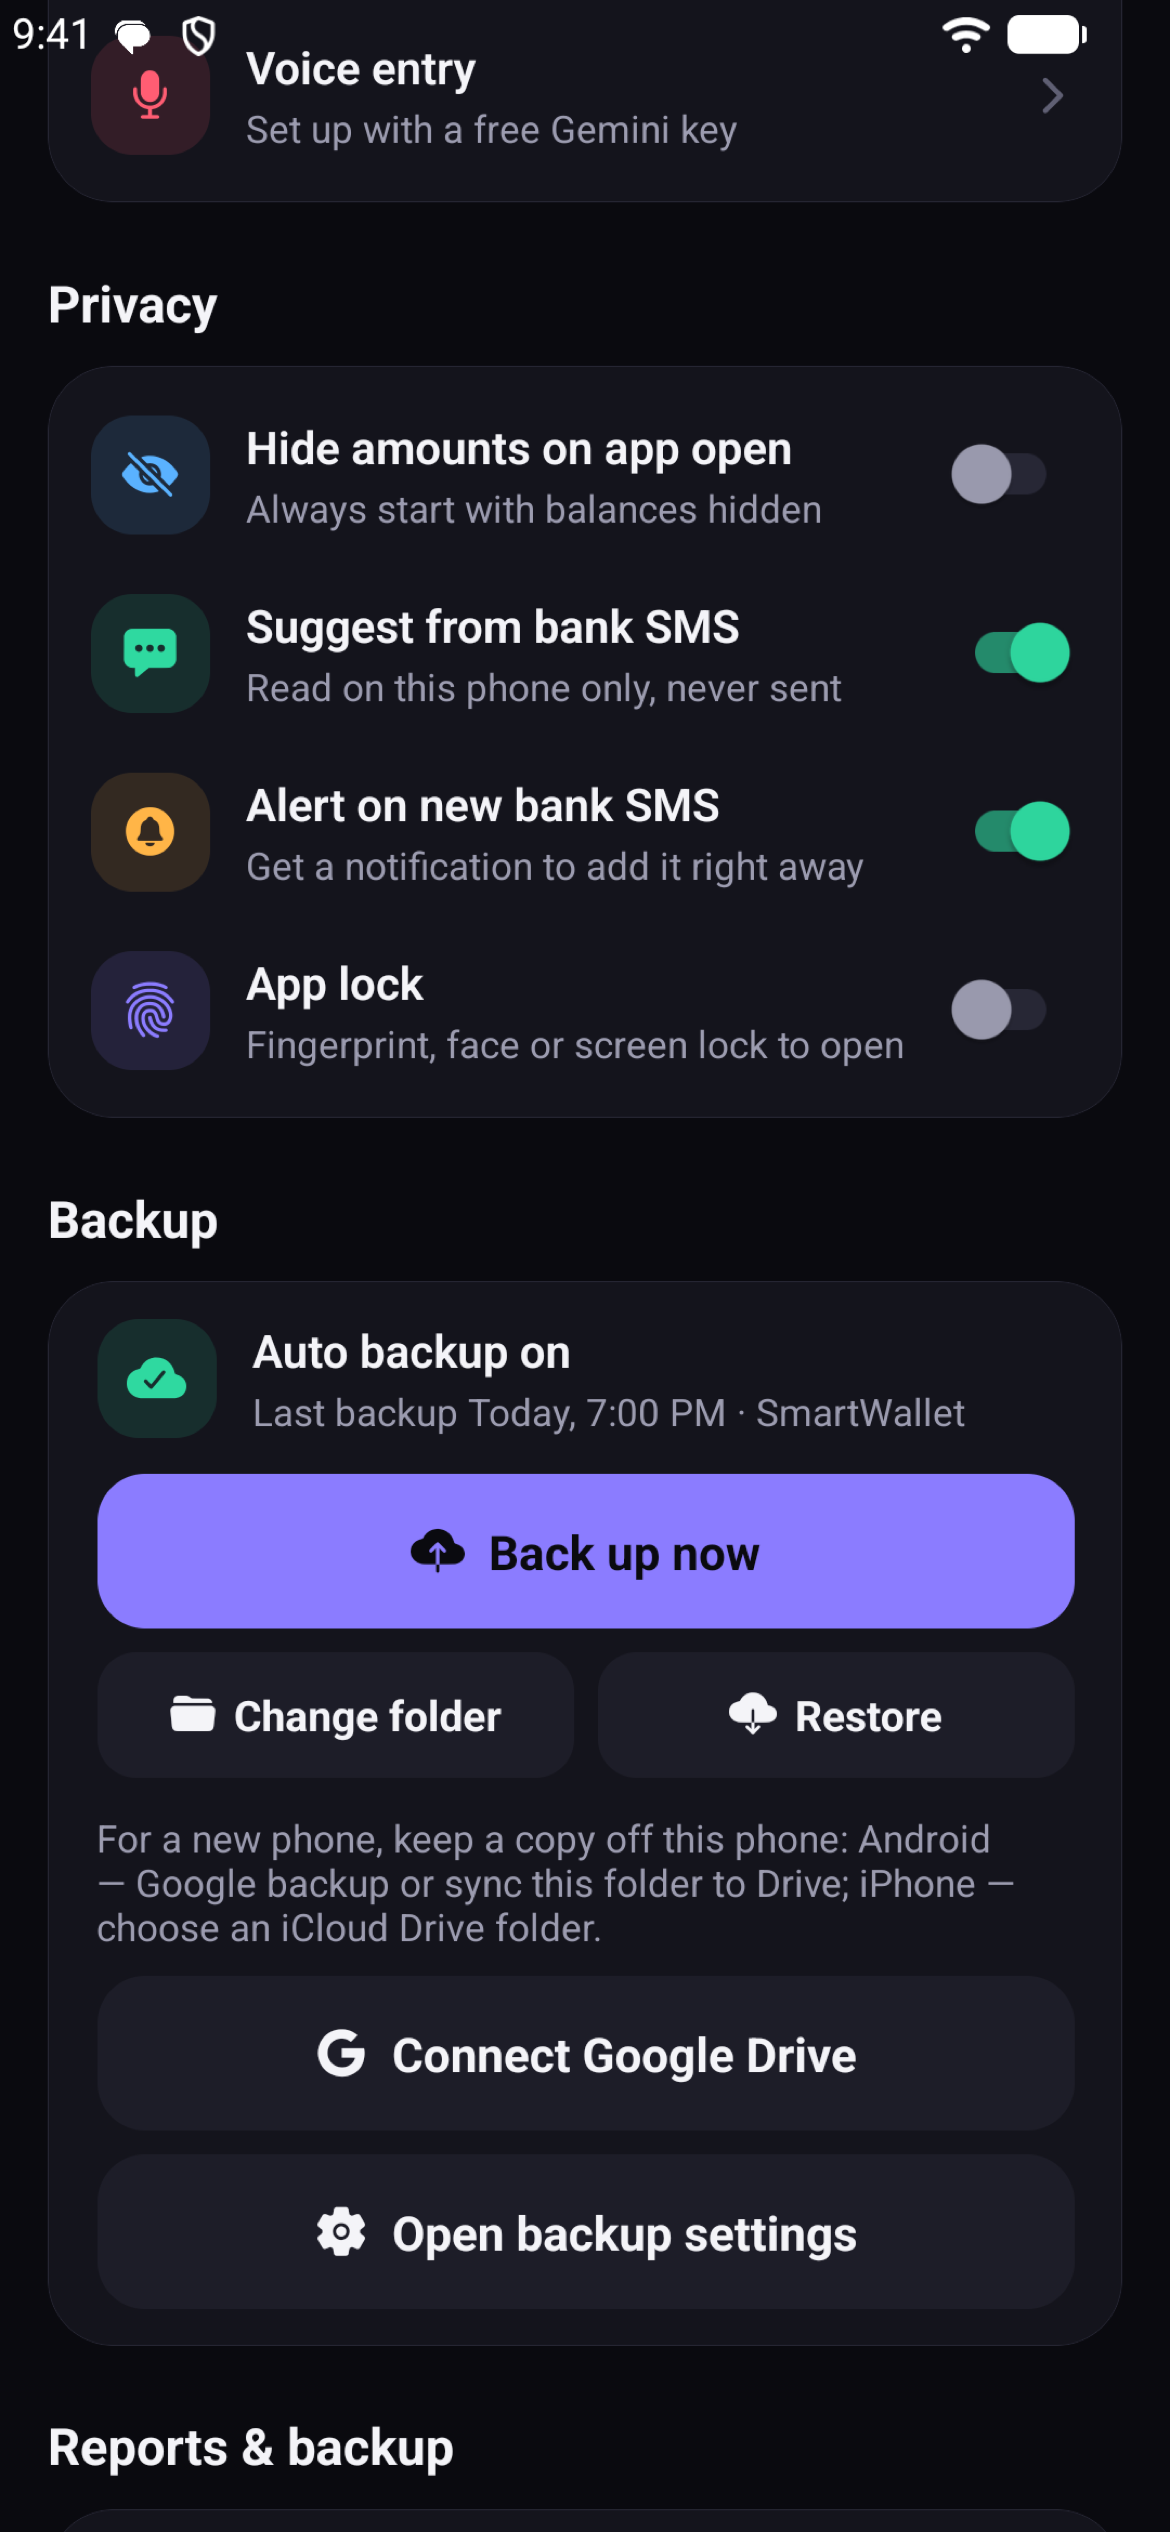
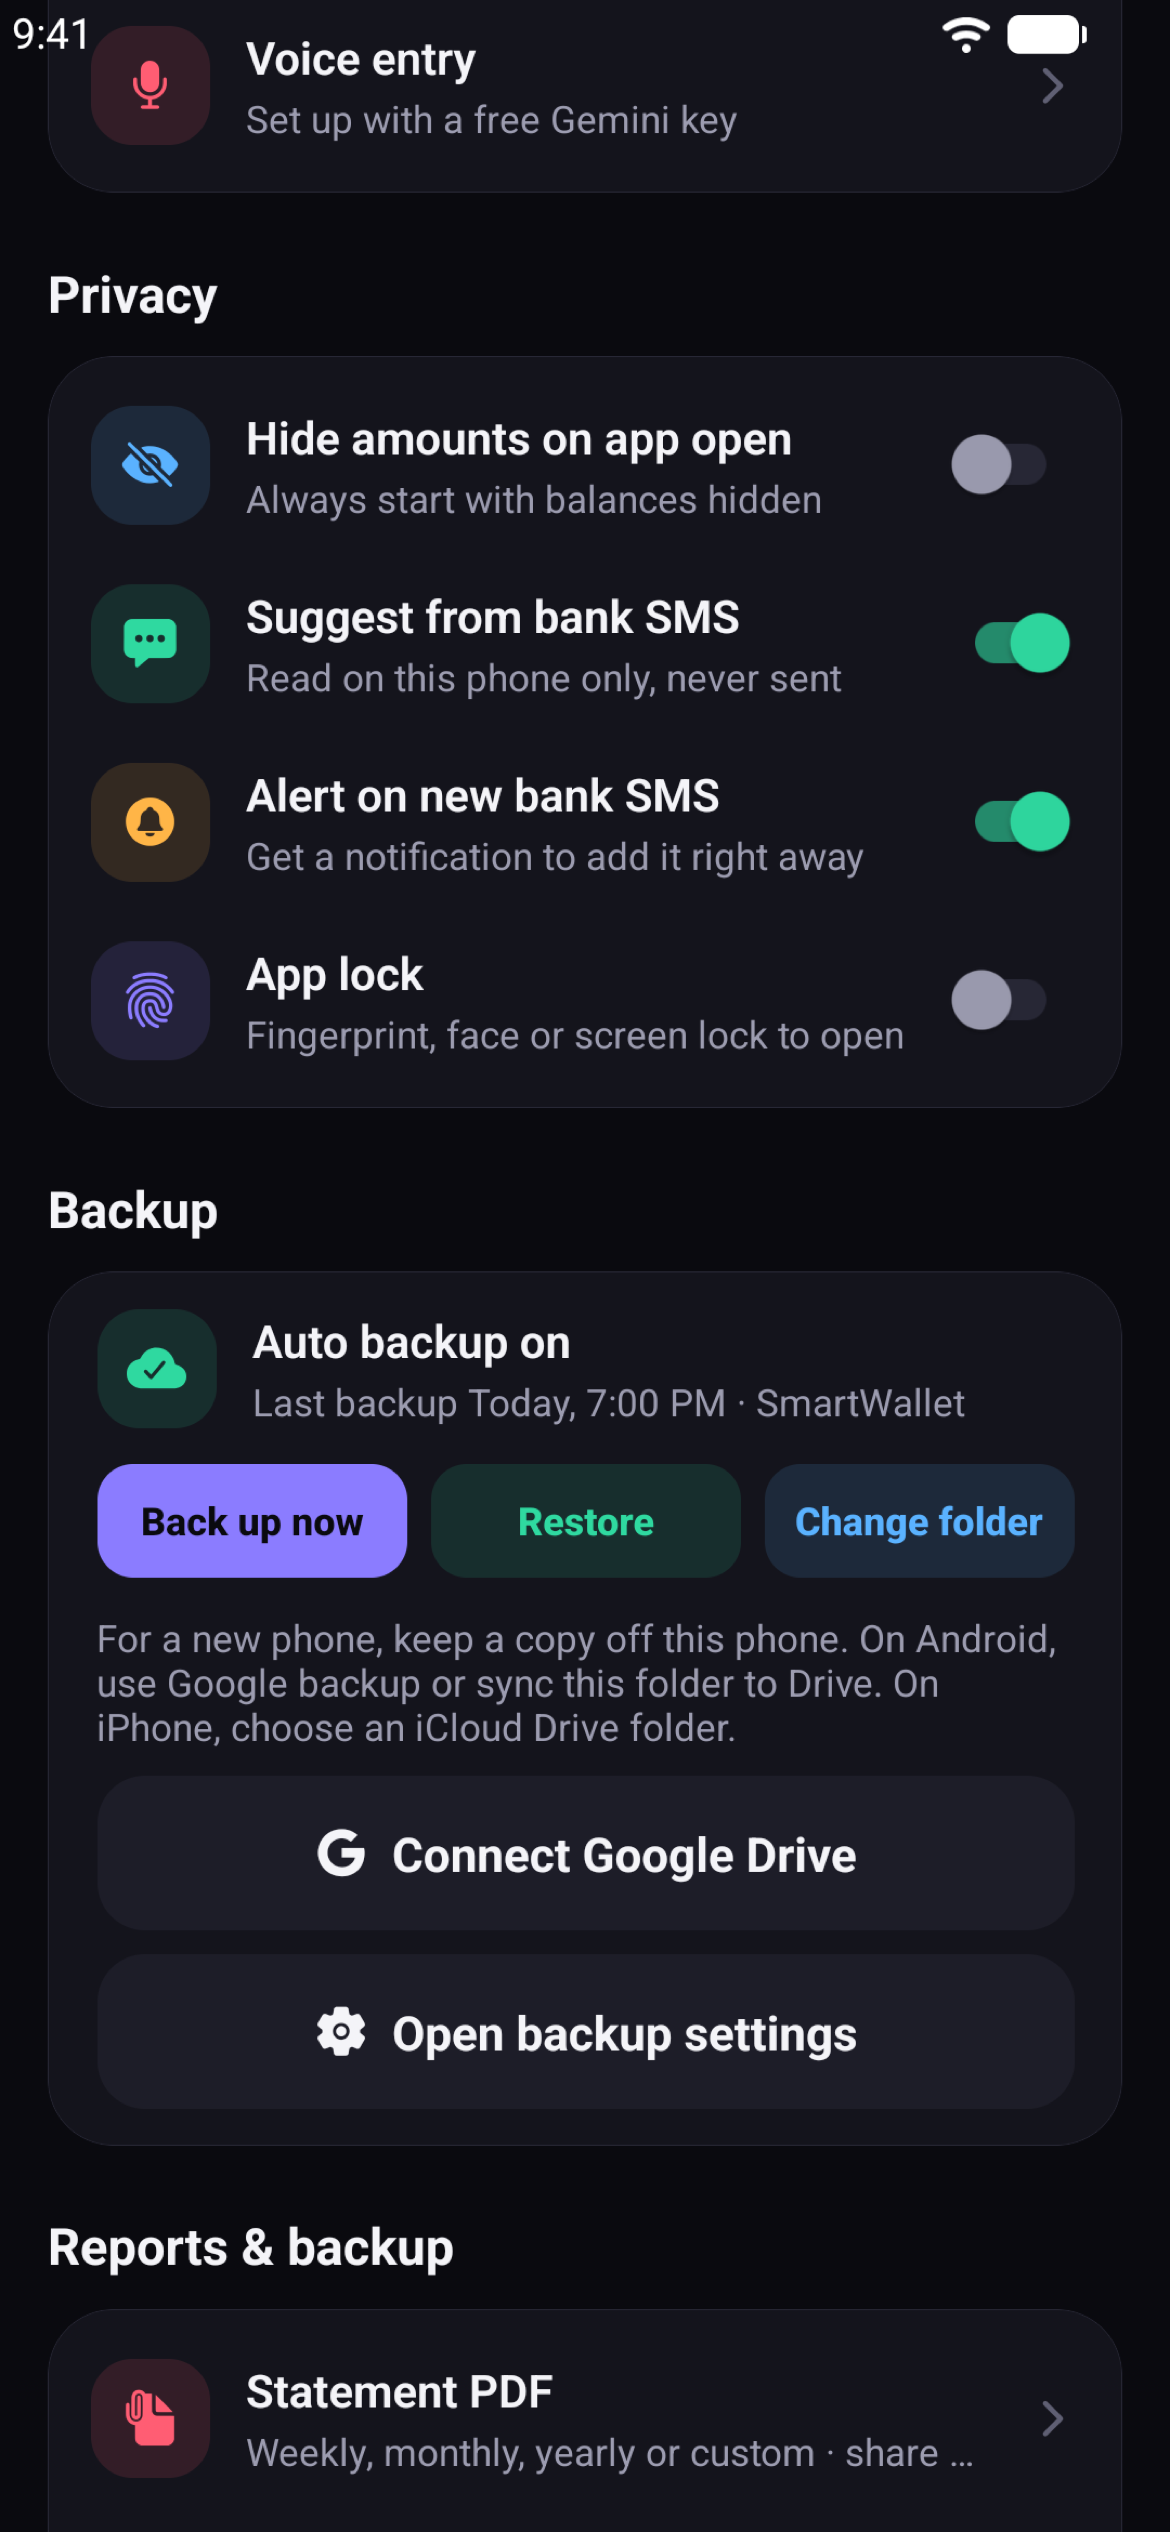
v1.3.2: backup buttons, privacy policy link in app, updated screenshots

diff --git a/README.md b/README.md
@@ -155,7 +155,7 @@ If **Play Protect** says *App blocked to protect your device* (it checks apps th
 
 ### 💾 Backup & data
 - **Automatic backup** to a folder you pick, after every change and when you leave the app: the latest copy plus one per day for a week. The folder stays when the app is uninstalled
-- **Google Drive sync (optional):** one sign-in, then a copy goes to a hidden SmartWallet folder in your Drive
+- **Google Drive sync (optional):** one sign-in, then a copy goes to a hidden SmartWallet folder in your Drive. Sync now, Restore and Disconnect sit in one row
 - **Android's Google backup** also covers your data and display settings; your Gemini key is never included
 - **Restore from backup** right on the home screen after a reinstall, or from Settings → Backup
 - **PDF statements** for any week, month, year or dates you pick, for all accounts or one. Share or print
@@ -289,7 +289,7 @@ The free tier is plenty for personal use and needs no card. The key is stored en
 - **Bank SMS** are read on your phone only, when you turn it on, and are never uploaded or sent to Gemini. Message text isn't stored or backed up.
 - **App lock** uses Android's own fingerprint and face prompt. SmartWallet never sees your fingerprint or PIN.
 - Backups go only where you choose: your backup folder, Android's Google backup, and (if you connect it) a hidden SmartWallet folder in your own Google Drive that the app can't see beyond.
-- Full [privacy policy](https://smartwalletapp.vercel.app/privacy/).
+- Full [privacy policy](https://smartwalletapp.vercel.app/privacy/), also linked from **Settings → Help → Privacy policy**.
 
 ## Updates
 
